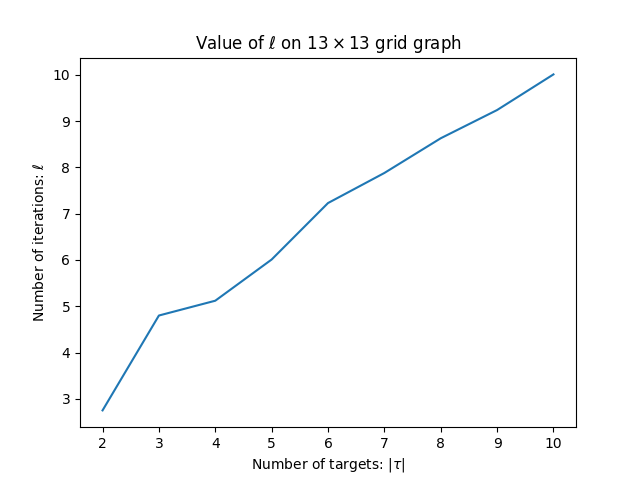
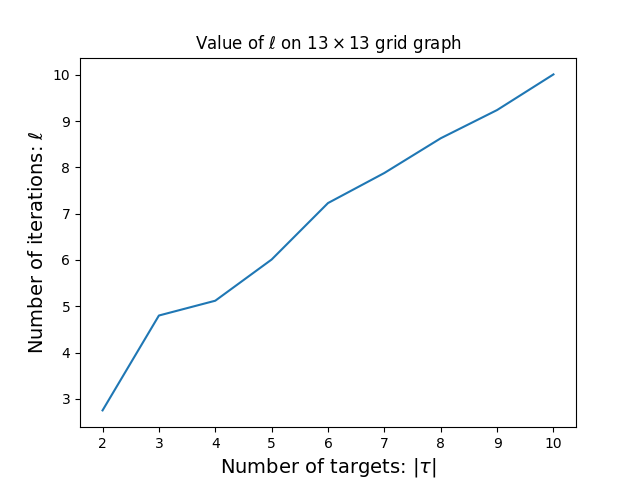
updating figure axis size

Changed region(s): [[0.3438, 0.9375, 0.6875, 1.0], [0.0312, 0.2812, 0.0938, 0.75]]

diff --git a/actual_results.py b/actual_results.py
@@ -280,7 +280,6 @@ def sprint_bench(size, target_count, num_graphs, t_low, t_high, loc):
 
 
 def main():
-    # TODO: MAKE A PASS MATCHING REFERENCE NUMBERS
 
     # ####################
     # # COUNT ITERATIONS #
@@ -293,35 +292,35 @@ def main():
     # loc = "results/count"
     # count_iterations_bench(wl, wh, tl, th, num_graphs, loc)
 
-    # # Generate Charts
-    # # Data from final_results/count/res.txt
-    # # Define X and Y variable data
-    # size = np.array(range(5, 14))
-    # iters = [3.18, 5.24, 6.62, 7.58, 8.36, 8.35, 8.60, 9.75, 10.01]
-    # plt.plot(size, iters)
-    # plt.xlabel(r"Square Grid Graph Width")  # add X-axis label
-    # plt.ylabel(r"Number of iterations: $\ell$")  # add Y-axis label
-    # plt.title(r"Value of $\ell$ on Graphs with $|\tau| = 10$")  # add title
-    # plt.savefig("results/count/width_iters.png")
-    # plt.clf()
+    # Generate Charts
+    # Data from final_results/count/res.txt
+    # Define X and Y variable data
+    size = np.array(range(5, 14))
+    iters = [3.18, 5.24, 6.62, 7.58, 8.36, 8.35, 8.60, 9.75, 10.01]
+    plt.plot(size, iters)
+    plt.xlabel(r"Square Grid Graph Width", fontsize=14)  # add X-axis label
+    plt.ylabel(r"Number of iterations: $\ell$", fontsize=14)  # add Y-axis label
+    plt.title(r"Value of $\ell$ on Graphs with $|\tau| = 10$")  # add title
+    plt.savefig("results/count/width_iters.png")
+    plt.clf()
 
-    # targets = np.array(range(2, 11))
-    # iters = [2.75, 4.80, 5.12, 6.01, 7.23, 7.88, 8.63, 9.24, 10.01]
-    # plt.plot(targets, iters)
-    # plt.xlabel(r"Number of targets: $|\tau|$")  # add X-axis label
-    # plt.ylabel(r"Number of iterations: $\ell$")  # add Y-axis label
-    # plt.title(r"Value of $\ell$ on $13 \times 13$ grid graph")  # add title
-    # plt.savefig("results/count/target_iters.png")
+    targets = np.array(range(2, 11))
+    iters = [2.75, 4.80, 5.12, 6.01, 7.23, 7.88, 8.63, 9.24, 10.01]
+    plt.plot(targets, iters)
+    plt.xlabel(r"Number of targets: $|\tau|$", fontsize=14)  # add X-axis label
+    plt.ylabel(r"Number of iterations: $\ell$", fontsize=14)  # add Y-axis label
+    plt.title(r"Value of $\ell$ on $13 \times 13$ grid graph")  # add title
+    plt.savefig("results/count/target_iters.png")
 
-    ##################################
-    # GENERATE GRAPHS AND BRUTEFORCE #
-    ##################################
-    # Bruteforce the graphs used for Figure 7
-    num_graphs = 10
-    size = 4
-    target_count = 2
-    loc = "results/brute"
-    bruteforce_bench(num_graphs, size, target_count, loc)
+    # ##################################
+    # # GENERATE GRAPHS AND BRUTEFORCE #
+    # ##################################
+    # # Bruteforce the graphs used for Figure 7
+    # num_graphs = 10
+    # size = 4
+    # target_count = 2
+    # loc = "results/brute"
+    # bruteforce_bench(num_graphs, size, target_count, loc)
 
     # ############################################################
     # # COMPARE RANDOM SEED TREE VS MST SEED TREE , SMALL GRAPHS #
